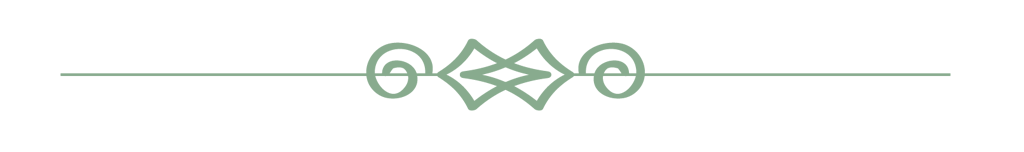
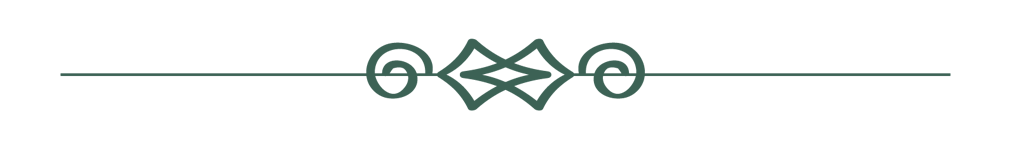
Service file

Changed region(s): [[0.0625, 0.2632, 0.9375, 0.7368]]

diff --git a/css/main.css b/css/main.css
@@ -43,7 +43,7 @@ body {
 }
 
 .date-rectangle {
-  background-color: #88AB8E;;
+  background-color: #3c6255;
   color: white;
   height: fit-content;
   width: fit-content;
@@ -64,6 +64,24 @@ body {
 
 @media (max-width: 767px) {
   .text-home-title {
+    font-size: smaller;
+  }
+
+  .custom-input {
+    font-size: smaller !important;
+  }
+
+  .radio-container {
+    label {
+      font-size: smaller !important;
+    }
+  }
+
+  .date-rectangle-button-form {
+    font-size: smaller !important;
+  }
+
+  .text-home-date {
     font-size: smaller;
   }
 
@@ -374,7 +392,7 @@ body {
 
   .ampersand {
     position: absolute;
-    background-color: #88AB8E;;
+    background-color: #3c6255;;
     color: white;
     font-size: 50px;
     width: 70px;
@@ -478,6 +496,11 @@ body {
 }
 
 .text-home-title {
+  color: white;
+  font-family: "Muli", Sans-serif;
+}
+
+.text-home-date {
   color: white;
   font-family: "Muli", Sans-serif;
 }
@@ -709,8 +732,8 @@ body {
 
 .countdown-square {
   background-color: rgba(255, 255, 255, 0);
-  border-style: double;
-  border-width: 5px;
+  border-style: dashed;
+  border-width: 1px;
   border-color: white;
   display: flex;
   flex-direction: column;
@@ -750,15 +773,15 @@ body {
   .countdown-square {
     width: 82px;
     height: 100px;
-    margin: 2px;
+    margin: 5px;
   }
 
   .countdown-square .number {
-    font-size: 20px;
+    font-size: 27px;
   }
 
   .countdown-square .label {
-    font-size: 8px;
+    font-size: 13px;
   }
 
   .countdown-timer-display {
@@ -874,7 +897,7 @@ body {
 }
 
 .section-timer {
-  background-color: #88AB8E;
+  background-color: #3c6255;
 }
 
 .map-container {
@@ -978,7 +1001,7 @@ body {
   background-color: #FFFFFF;
   border-style: solid;
   border-width: 1px;
-  border-color: #88AB8E;
+  border-color: #3c6255;
   border-radius: 0;
   padding: 5px 15px;
   height: 50px;
@@ -1012,7 +1035,7 @@ body {
 }
 
 .date-rectangle-button {
-  background-color: #88AB8E;
+  background-color: #3c6255;
   color: white;
   height: fit-content;
   width: fit-content;
@@ -1088,13 +1111,14 @@ body {
   
   label {
     position: relative;
-    color: #88AB8E;;
+    color: #3c6255;
     font-family: "Muli", sans-serif;
     cursor: pointer;
     display: inline-flex;
+    font-size: medium;
     align-items: center;
     gap: 0.8em;
-    border: 3px solid #88AB8E;;
+    border: 3px solid #3c6255;
     padding: 8px 23px;
   }
 
@@ -1106,23 +1130,23 @@ body {
     height: 15px;
     width: 15px;
     border: 0.45em solid #ffffff;
-    background-color: #88AB8E;;
+    background-color: #3c6255;
   }
   
   input[type="radio"]:checked + label {
-    background-color: #88AB8E;;
+    background-color: #3c6255;
     color: #ffffff;
   }
 }
 
 .date-rectangle-button-form {
   cursor: pointer;
-  background-color: #88AB8E;;
+  background-color: #3c6255;
   color: white;
   height: fit-content;
   width: fit-content;
   padding: 20px 40px;
-  font-size: larger;
+  font-size: medium;
   border: 0px;
   width: 100%;
   margin-top: 20px;
@@ -1142,7 +1166,7 @@ body {
   top: 20px;
   color: white;
   padding: 15px;
-  background-color: #88AB8E;
+  background-color: #3c6255;
   text-align: center;
   overflow: hidden;
   position: absolute;

diff --git a/index.html b/index.html
@@ -175,7 +175,7 @@
     <div class="ww-section section-localizacao" id="events">
       <div class="container ww-wedding-event">
         <div class="titles-image">
-          <div class="text-couple-subtitle">Localizações do casamento</div>
+          <div class="text-couple-subtitle">Localizações</div>
           <img class="img-separator-home-black" src="images/separador-green.png" alt="separator" />
           <p class="text-home-sub-subtitle-couple">Cerimónia & Restaurante</p>
         </div>
